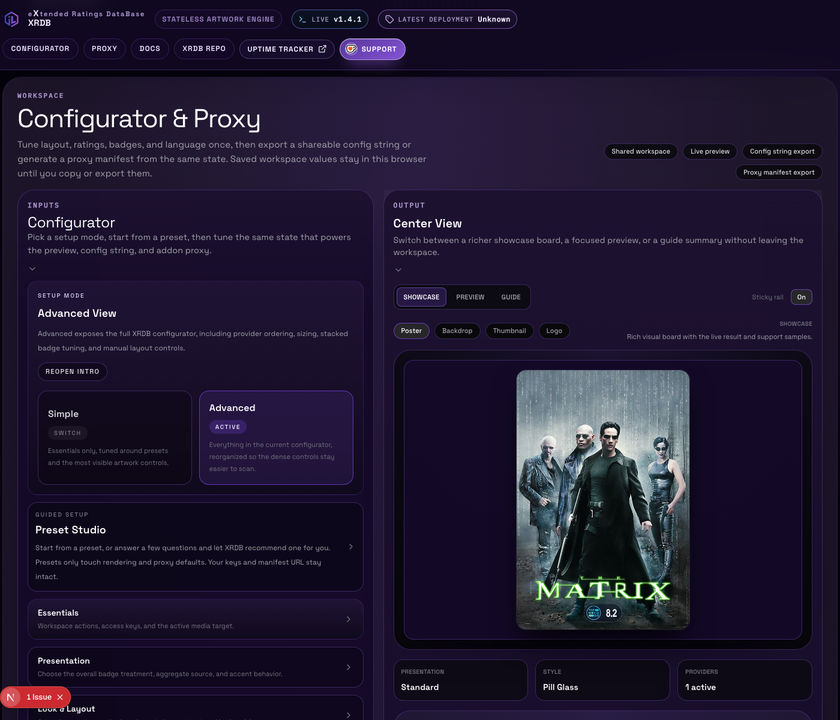
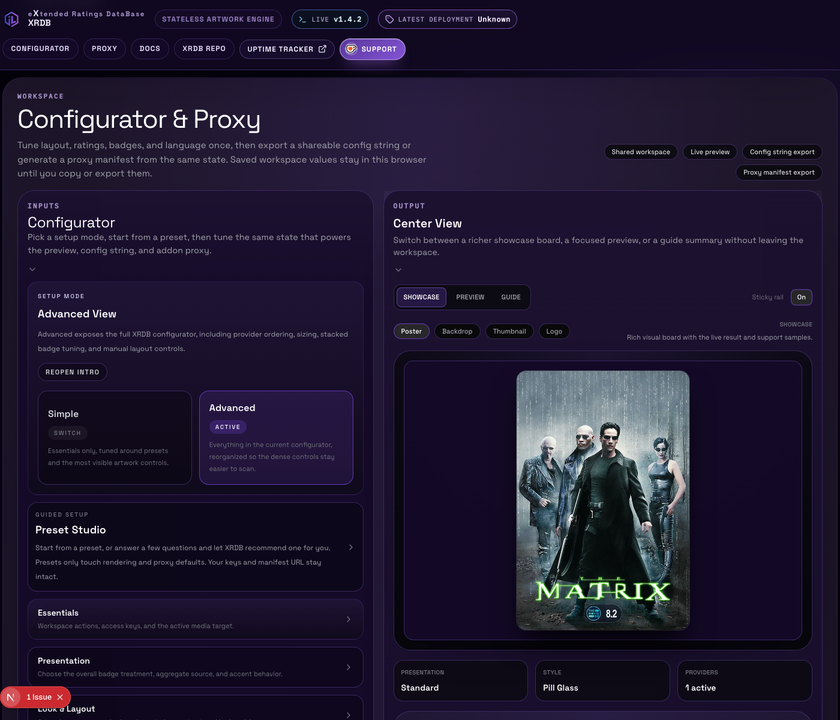
chore: release 1.5.0

diff --git a/lib/imageRouteConfig.ts b/lib/imageRouteConfig.ts
@@ -75,7 +75,7 @@ export const BACKDROP_IMAGE_DIMENSIONS: Record<BackdropImageSize, { width: numbe
   '4k': { width: 3840, height: 2160 },
 };
 export const DEFAULT_BLOCKBUSTER_DENSITY: BlockbusterDensity = 'balanced';
-export const FINAL_IMAGE_RENDERER_CACHE_VERSION = 'poster-backdrop-logo-v90';
+export const FINAL_IMAGE_RENDERER_CACHE_VERSION = 'poster-backdrop-logo-v91';
 export const XRDB_REQUEST_API_KEYS = getConfiguredXrdbRequestKeys();
 export const ANILIST_GRAPHQL_URL =
   process.env.XRDB_ANILIST_GRAPHQL_URL?.trim() || 'https://graphql.anilist.co';

diff --git a/README.md b/README.md
@@ -8,7 +8,7 @@ XRDB, eXtended Ratings DataBase, generates poster, backdrop, thumbnail, and logo
 <!-- changelog-links:start -->
 
 > [!TIP]
-> **Changelog:** read the [full changelog](CHANGELOG.md) or jump straight to the [latest entry](CHANGELOG.md#v1-4-2).
+> **Changelog:** read the [full changelog](CHANGELOG.md) or jump straight to the [latest entry](CHANGELOG.md#v1-5-0).
 
 <!-- changelog-links:end -->
 
@@ -82,9 +82,9 @@ Each preview URL includes a `cb` cache buster token. The release flow refreshes 
     <td><strong>Attack on Titan</strong><br>Japanese text, anime ratings, poster stack</td>
   </tr>
   <tr>
-    <td><a href="https://xrdb.ibbylabs.dev/preview/the-boys-poster?cb=readme-preview-the-boys-poster-v1-4-2"><img src="https://xrdb.ibbylabs.dev/preview/the-boys-poster?cb=readme-preview-the-boys-poster-v1-4-2" alt="The Boys poster live preview" width="220"></a></td>
-    <td><a href="https://xrdb.ibbylabs.dev/preview/dune-part-two-poster?cb=readme-preview-dune-part-two-poster-v1-4-2"><img src="https://xrdb.ibbylabs.dev/preview/dune-part-two-poster?cb=readme-preview-dune-part-two-poster-v1-4-2" alt="Dune Part Two poster live preview" width="220"></a></td>
-    <td><a href="https://xrdb.ibbylabs.dev/preview/attack-on-titan-poster?cb=readme-preview-attack-on-titan-poster-v1-4-2"><img src="https://xrdb.ibbylabs.dev/preview/attack-on-titan-poster?cb=readme-preview-attack-on-titan-poster-v1-4-2" alt="Attack on Titan poster live preview" width="220"></a></td>
+    <td><a href="https://xrdb.ibbylabs.dev/preview/the-boys-poster?cb=readme-preview-the-boys-poster-v1-5-0"><img src="https://xrdb.ibbylabs.dev/preview/the-boys-poster?cb=readme-preview-the-boys-poster-v1-5-0" alt="The Boys poster live preview" width="220"></a></td>
+    <td><a href="https://xrdb.ibbylabs.dev/preview/dune-part-two-poster?cb=readme-preview-dune-part-two-poster-v1-5-0"><img src="https://xrdb.ibbylabs.dev/preview/dune-part-two-poster?cb=readme-preview-dune-part-two-poster-v1-5-0" alt="Dune Part Two poster live preview" width="220"></a></td>
+    <td><a href="https://xrdb.ibbylabs.dev/preview/attack-on-titan-poster?cb=readme-preview-attack-on-titan-poster-v1-5-0"><img src="https://xrdb.ibbylabs.dev/preview/attack-on-titan-poster?cb=readme-preview-attack-on-titan-poster-v1-5-0" alt="Attack on Titan poster live preview" width="220"></a></td>
   </tr>
 </table>
 
@@ -96,8 +96,8 @@ Each preview URL includes a `cb` cache buster token. The release flow refreshes 
     <td><strong>Stranger Things</strong><br>Square ratings, stream badges, right side stack</td>
   </tr>
   <tr>
-    <td><a href="https://xrdb.ibbylabs.dev/preview/game-of-thrones-backdrop?cb=readme-preview-game-of-thrones-backdrop-v1-4-2"><img src="https://xrdb.ibbylabs.dev/preview/game-of-thrones-backdrop?cb=readme-preview-game-of-thrones-backdrop-v1-4-2" alt="Game of Thrones backdrop live preview" width="320"></a></td>
-    <td><a href="https://xrdb.ibbylabs.dev/preview/stranger-things-backdrop?cb=readme-preview-stranger-things-backdrop-v1-4-2"><img src="https://xrdb.ibbylabs.dev/preview/stranger-things-backdrop?cb=readme-preview-stranger-things-backdrop-v1-4-2" alt="Stranger Things backdrop live preview" width="320"></a></td>
+    <td><a href="https://xrdb.ibbylabs.dev/preview/game-of-thrones-backdrop?cb=readme-preview-game-of-thrones-backdrop-v1-5-0"><img src="https://xrdb.ibbylabs.dev/preview/game-of-thrones-backdrop?cb=readme-preview-game-of-thrones-backdrop-v1-5-0" alt="Game of Thrones backdrop live preview" width="320"></a></td>
+    <td><a href="https://xrdb.ibbylabs.dev/preview/stranger-things-backdrop?cb=readme-preview-stranger-things-backdrop-v1-5-0"><img src="https://xrdb.ibbylabs.dev/preview/stranger-things-backdrop?cb=readme-preview-stranger-things-backdrop-v1-5-0" alt="Stranger Things backdrop live preview" width="320"></a></td>
   </tr>
 </table>
 
@@ -109,8 +109,8 @@ Each preview URL includes a `cb` cache buster token. The release flow refreshes 
     <td><strong>Attack on Titan</strong><br>Japanese logo with anime ratings and quality badges</td>
   </tr>
   <tr>
-    <td><a href="https://xrdb.ibbylabs.dev/preview/the-boys-logo?cb=readme-preview-the-boys-logo-v1-4-2"><img src="https://xrdb.ibbylabs.dev/preview/the-boys-logo?cb=readme-preview-the-boys-logo-v1-4-2" alt="The Boys logo live preview" width="320"></a></td>
-    <td><a href="https://xrdb.ibbylabs.dev/preview/attack-on-titan-logo?cb=readme-preview-attack-on-titan-logo-v1-4-2"><img src="https://xrdb.ibbylabs.dev/preview/attack-on-titan-logo?cb=readme-preview-attack-on-titan-logo-v1-4-2" alt="Attack on Titan logo live preview" width="320"></a></td>
+    <td><a href="https://xrdb.ibbylabs.dev/preview/the-boys-logo?cb=readme-preview-the-boys-logo-v1-5-0"><img src="https://xrdb.ibbylabs.dev/preview/the-boys-logo?cb=readme-preview-the-boys-logo-v1-5-0" alt="The Boys logo live preview" width="320"></a></td>
+    <td><a href="https://xrdb.ibbylabs.dev/preview/attack-on-titan-logo?cb=readme-preview-attack-on-titan-logo-v1-5-0"><img src="https://xrdb.ibbylabs.dev/preview/attack-on-titan-logo?cb=readme-preview-attack-on-titan-logo-v1-5-0" alt="Attack on Titan logo live preview" width="320"></a></td>
   </tr>
 </table>
 

diff --git a/CHANGELOG.md b/CHANGELOG.md
@@ -15,6 +15,19 @@
 
 <a id="v1-4-2"></a>
 
+<a id="v1-5-0"></a>
+
+## [v1.5.0] - 03/04/2026
+
+### Added
+* add share link import and remove invalid discord link
+  
+  Add workspace import link parsing so shared XRDB URLs can apply configurator settings and media target context.
+  
+  Add parser coverage tests and wire the new action into workspace management controls.
+  
+  Remove XRDB AIOStreams Discord  from hero/footer UI and brand env template defaults, keeping official XRDB Discord only and adding AIOMetadata discord
+
 ## [v1.4.2] - 03/04/2026
 
 ### Fixed
